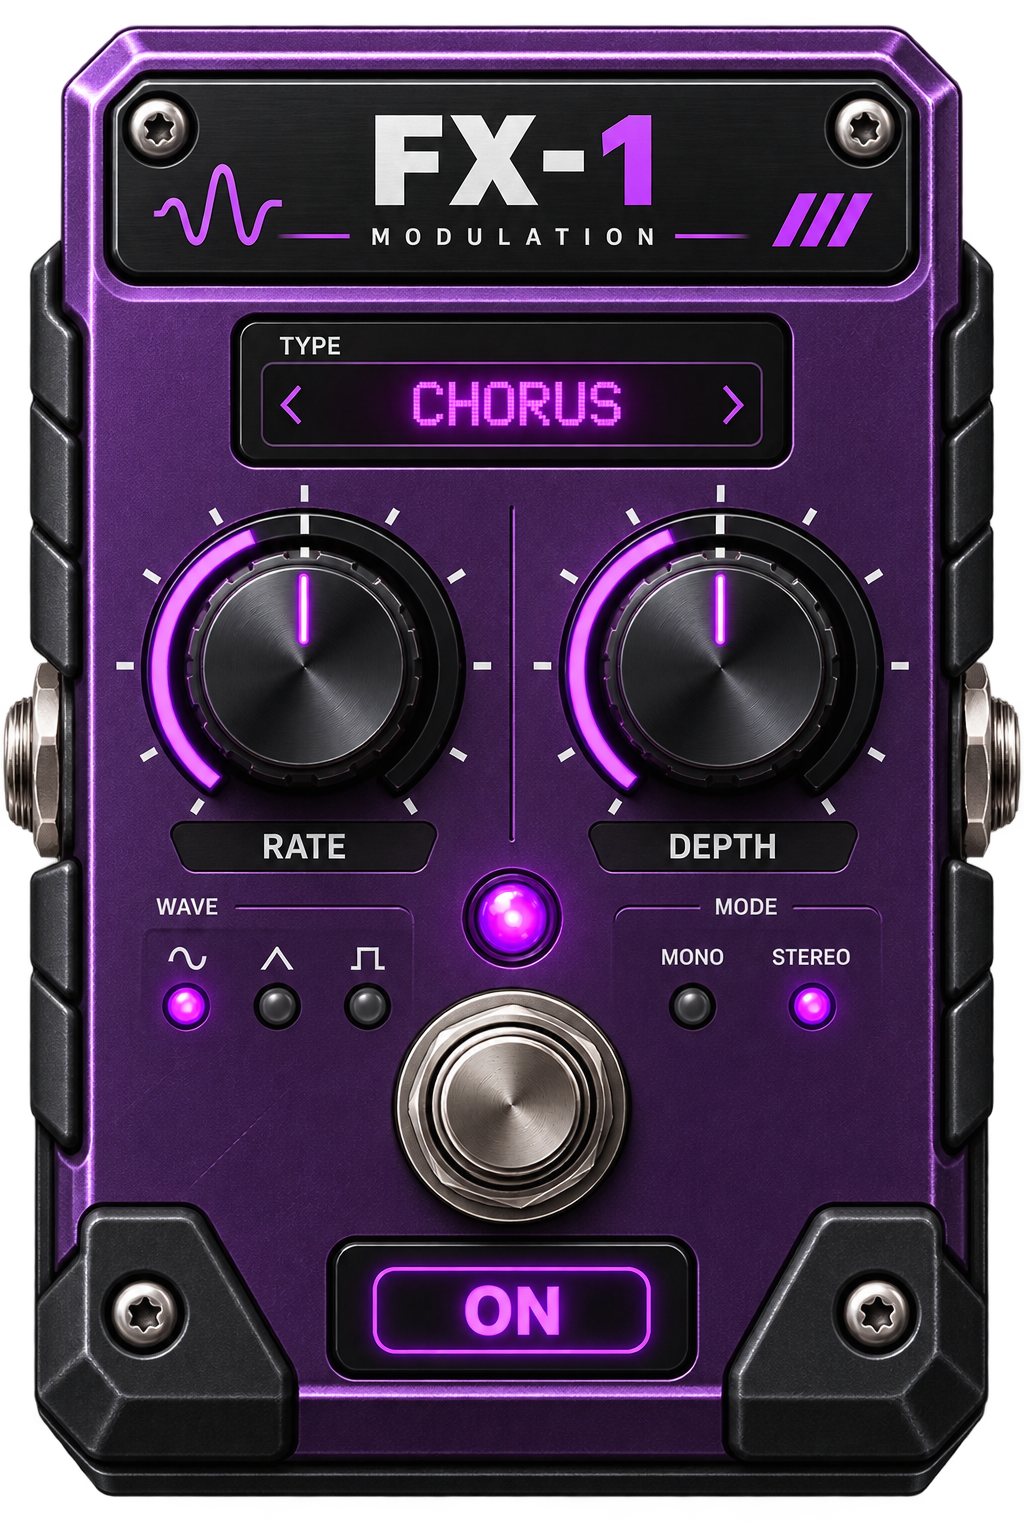
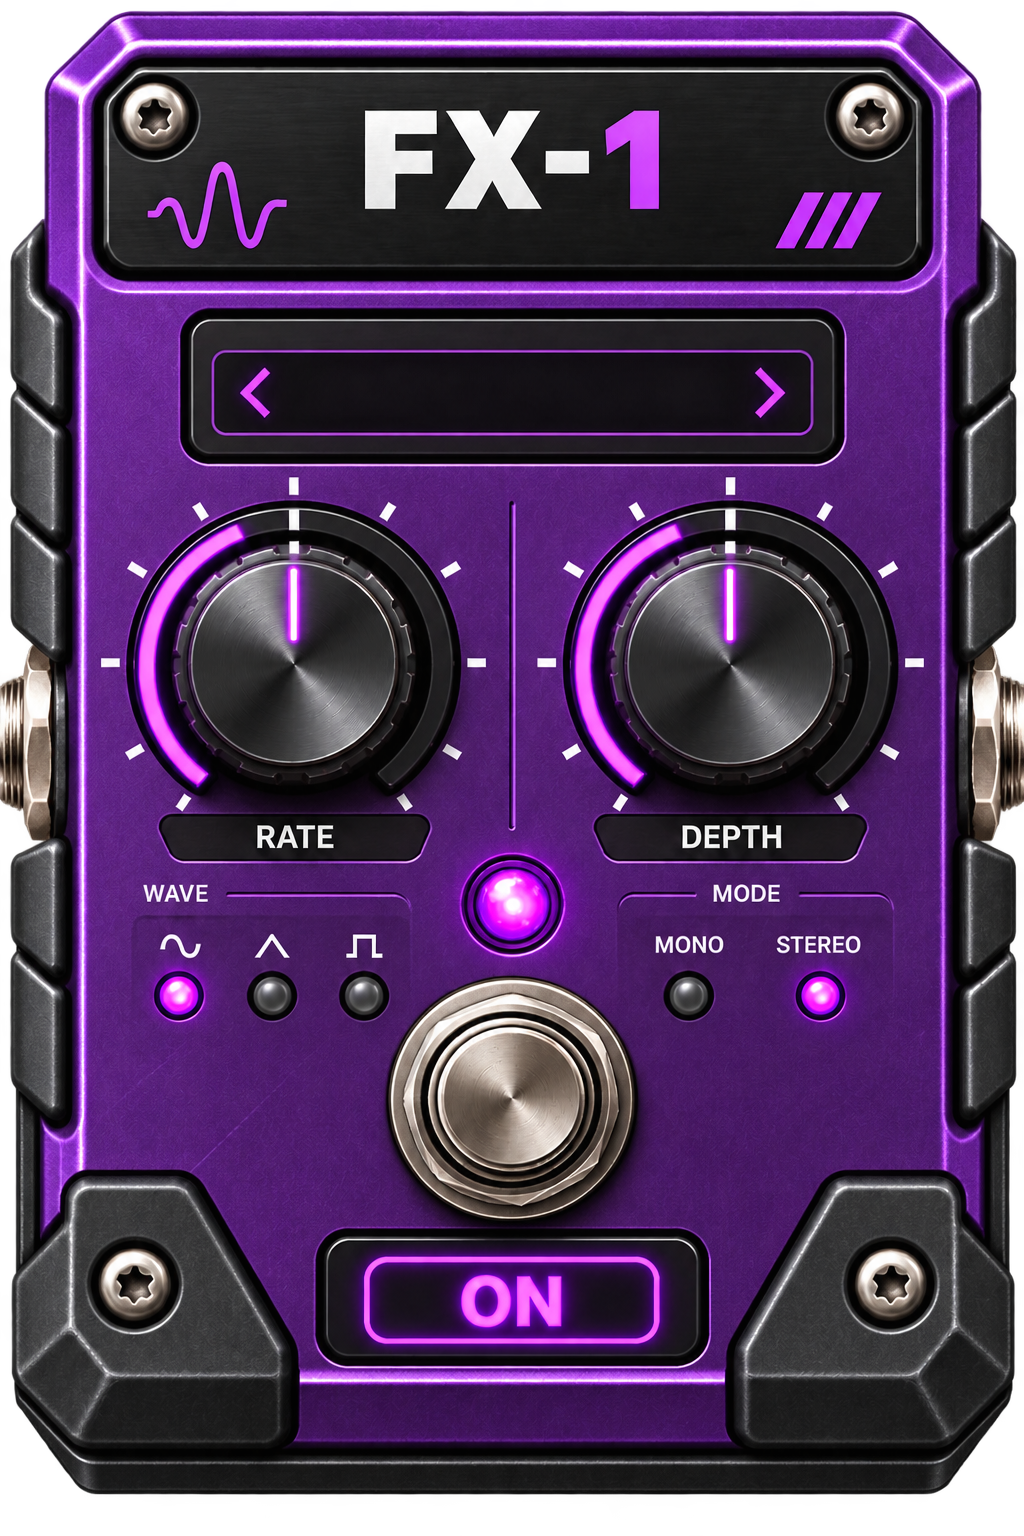
Add FX1 and FX2 artwork with dynamic type overlays

diff --git a/modernFxEditor.cpp b/modernFxEditor.cpp
@@ -2,6 +2,7 @@
 
 #include "MidiTable.h"
 #include "SysxIO.h"
+#include "effectArtworkWidget.h"
 #include "effectModelBrowser.h"
 #include "globalVariables.h"
 #include "modernTheme.h"
@@ -14,8 +15,6 @@
 #include <QHash>
 #include <QHBoxLayout>
 #include <QLabel>
-#include <QLinearGradient>
-#include <QPainter>
 #include <QPushButton>
 #include <QScrollArea>
 #include <QSet>
@@ -29,71 +28,6 @@
 
 namespace {
 const char kStructure[] = "Structure";
-
-class FxIdentityWidget : public QWidget
-{
-public:
-    explicit FxIdentityWidget(FxSlot slot, QWidget *parent = nullptr)
-        : QWidget(parent), fxSlot(slot)
-    {
-        setObjectName("FxIdentityWidget");
-        setMinimumSize(200, 220);
-        setSizePolicy(QSizePolicy::Expanding, QSizePolicy::Expanding);
-        setProperty("algorithmName", QString::fromUtf8("—"));
-    }
-
-protected:
-    void paintEvent(QPaintEvent *) override
-    {
-        QPainter painter(this);
-        painter.setRenderHint(QPainter::Antialiasing, true);
-
-        const QRectF body = rect().adjusted(12, 12, -12, -12);
-        QLinearGradient face(body.topLeft(), body.bottomRight());
-        face.setColorAt(0, QColor("#20192A"));
-        face.setColorAt(0.55, QColor("#121018"));
-        face.setColorAt(1, QColor("#090A0D"));
-        painter.setPen(QPen(QColor(ModernTheme::color(
-            ModernTheme::Border)), 1));
-        painter.setBrush(face);
-        painter.drawRoundedRect(body, 10, 10);
-
-        QColor accent(ModernTheme::activeEffectAccent(
-            fxSlot == FxSlot::FX1 ? "FX-1" : "FX-2"));
-        accent.setAlpha(210);
-        painter.setPen(Qt::NoPen);
-        painter.setBrush(accent);
-        painter.drawRoundedRect(
-            QRectF(body.left() + 18, body.top() + 18,
-                   body.width() - 36, 3), 1.5, 1.5);
-
-        QFont slotFont = font();
-        slotFont.setPointSizeF(25.0);
-        slotFont.setWeight(QFont::Bold);
-        slotFont.setLetterSpacing(QFont::AbsoluteSpacing, 1.2);
-        painter.setFont(slotFont);
-        painter.setPen(QColor(ModernTheme::color(
-            ModernTheme::PrimaryText)));
-        painter.drawText(
-            body.adjusted(20, 45, -20, -body.height() * 0.52),
-            Qt::AlignCenter,
-            fxSlot == FxSlot::FX1 ? "FX-1" : "FX-2");
-
-        QFont typeFont = font();
-        typeFont.setPointSizeF(13.0);
-        typeFont.setWeight(QFont::DemiBold);
-        typeFont.setLetterSpacing(QFont::AbsoluteSpacing, 0.8);
-        painter.setFont(typeFont);
-        painter.setPen(accent.lighter(118));
-        painter.drawText(
-            body.adjusted(24, body.height() * 0.50, -24, -28),
-            Qt::AlignHCenter | Qt::AlignTop | Qt::TextWordWrap,
-            property("algorithmName").toString().trimmed().toUpper());
-    }
-
-private:
-    FxSlot fxSlot;
-};
 
 FxParameterSpec parameter(int bank, const QString &offset,
                           FxControlKind kind, const QString &section,
@@ -315,8 +249,18 @@ void ModernFxEditor::buildEditor()
     editor->typeLabel()->hide();
     editor->setRightPanelTitle(slotName + " TYPES");
 
-    identityWidget = new FxIdentityWidget(fxSlot);
-    editor->setArtworkWidget(identityWidget);
+    artwork = new EffectArtworkWidget;
+    artwork->setArtwork(fxSlot == FxSlot::FX1
+        ? ":/assets/effects/fx1.png"
+        : ":/assets/effects/fx2.png");
+    QFont displayFont;
+    displayFont.setFamily("Menlo");
+    displayFont.setBold(true);
+    displayFont.setStretch(QFont::Condensed);
+    artwork->setTextOverlay(
+        "type", QRectF(0.29, 0.229, 0.42, 0.057), QString(),
+        displayFont, accent.lighter(118), Qt::AlignCenter, 0.50);
+    editor->setArtworkWidget(artwork);
 
     browser = new EffectModelBrowser;
     browser->setAccentColor(accent);
@@ -1334,10 +1278,8 @@ void ModernFxEditor::setFxType(int raw, bool writeBackend)
     const QString typeName = typeNameForRaw(raw);
     if (editor && editor->typeLabel())
         editor->typeLabel()->setText(typeName);
-    if (identityWidget) {
-        identityWidget->setProperty("algorithmName", typeName);
-        identityWidget->update();
-    }
+    if (artwork)
+        artwork->setTextOverlayText("type", typeName.toUpper());
     if (available)
         refreshControlsForType(raw);
     applyConditionalRules();
@@ -1370,11 +1312,8 @@ void ModernFxEditor::updateControls(bool controlsAvailable)
         }
         if (browser)
             browser->setCurrentIndex(-1);
-        if (identityWidget) {
-            identityWidget->setProperty("algorithmName",
-                                        QString::fromUtf8("—"));
-            identityWidget->update();
-        }
+        if (artwork)
+            artwork->setTextOverlayText("type", QString::fromUtf8("—"));
     }
 
     for (ControlBinding &binding : controls) {

diff --git a/modernFxEditor.h b/modernFxEditor.h
@@ -7,6 +7,7 @@
 #include <QVector>
 
 class QAbstractButton;
+class EffectArtworkWidget;
 class EffectEditorPanel;
 class EffectModelBrowser;
 class ModernToggleSwitch;
@@ -148,7 +149,7 @@ private:
     ModernToggleSwitch *stateToggle = nullptr;
     QComboBox *hiddenType = nullptr;
     QStackedWidget *algorithmStack = nullptr;
-    QWidget *identityWidget = nullptr;
+    EffectArtworkWidget *artwork = nullptr;
     QVector<TypeEntry> types;
     QVector<int> browserRawValues;
     QVector<int> pageRawValues;
